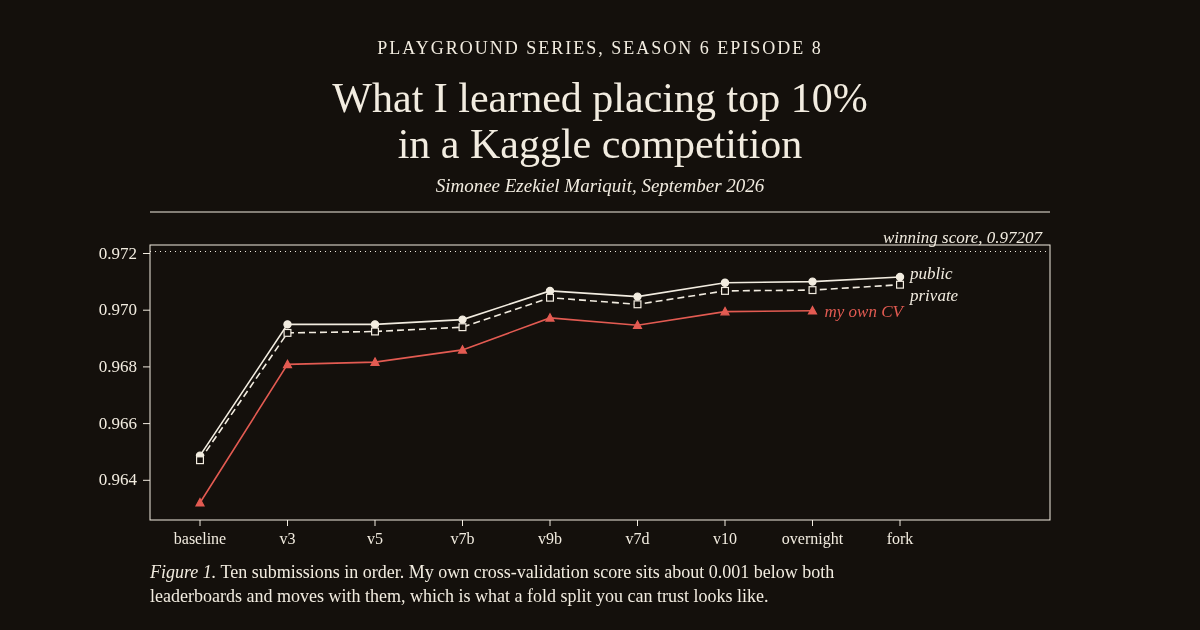
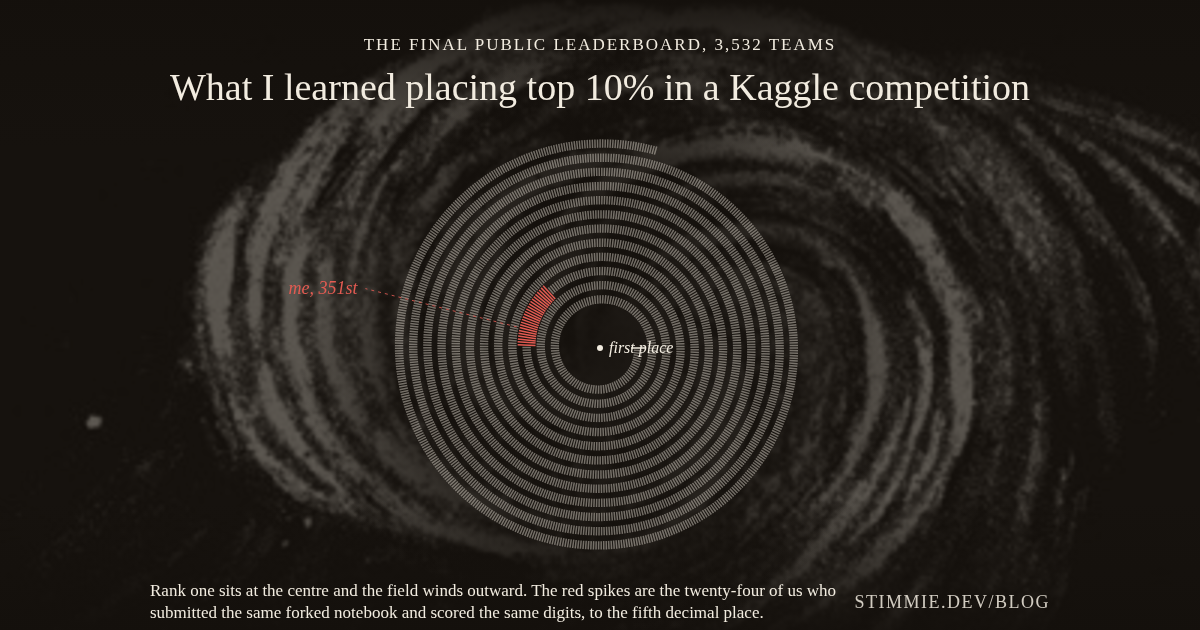
style(blog): cut the explain-the-meaning clauses, new cover
Removes the trailing "which is what a ... looks like" tag and its weaker
cousins from the Kaggle post. The cover is now the final leaderboard drawn as
a groove, rank one at the centre, over Lord Rosse's 1845 sketch of the
Whirlpool Galaxy (public domain).

Claude-Session: https://claude.ai/code/session_013WSamzJNLtGXawZjFojaYm

diff --git a/src/app/blog/top-ten-percent-on-kaggle/page.js b/src/app/blog/top-ten-percent-on-kaggle/page.js
@@ -202,15 +202,15 @@ export default function KagglePage() {
 
         <p>
           The one genuinely useful thing to do with the public score is to check it once against your CV at the
-          start. Mine agreed to within 0.002, and the leaderboard was slightly higher than CV, which is the healthy
-          direction. That told me my validation was honest. From then on I only submitted when CV went up, and I
+          start. Mine agreed to within 0.002, with the leaderboard slightly higher than CV. Had it come in below CV I would
+          have known my folds were flattering me. From then on I only submitted when CV went up, and I
           put the CV number in every submission description so I could tell later what had actually helped.
         </p>
 
         <Figure
           src="/blog/kaggle/submissions-tracking.png"
           alt="Line chart of my ten submissions in order, with my cross-validation score, the public leaderboard score and the private leaderboard score moving together, and the two submissions taken from public notebooks shaded."
-          caption="My ten submissions in order. The public and private scores sit about 0.001 above my own cross-validation and move with it the whole way, which is what a trustworthy fold split looks like. The two shaded submissions came from public notebooks, so they have no cross-validation of my own."
+          caption="My ten submissions in order. The public and private scores sit about 0.001 above my own cross-validation and move with it the whole way. The two shaded submissions came from public notebooks, so they have no cross-validation of my own."
         />
 
         <h2>Leakage</h2>
@@ -225,7 +225,7 @@ export default function KagglePage() {
         <p>
           The cheap check is to score every column on its own against the answer. If one column nearly solves the
           problem by itself, something is wrong. Here the strongest were daily screen time and weekend screen time,
-          and neither came close to solving it alone, which is what a strong honest feature looks like.
+          and neither came close to solving it alone.
         </p>
 
         <p>
@@ -297,7 +297,7 @@ export default function KagglePage() {
           You then have to combine 84 sets of guesses into one. I tried three ways of doing it and they all landed
           within 0.0001 of each other, which told me the combining method wasn&apos;t where the score lived. What did
           move it was adding a model that made <em>different</em> mistakes from the others. Another copy of the same
-          model with a new random seed was worth about 0.00003, which is nothing.
+          model with a new random seed was worth about 0.00003.
         </p>
 
         <h2>Forking the public notebook</h2>
@@ -369,14 +369,13 @@ export default function KagglePage() {
           Second place is the one I keep rereading.{" "}
           <a href="https://www.kaggle.com/competitions/playground-series-s6e8/writeups/2nd-place-solution">Xin Feng</a>{" "}
           did it by hand on Kaggle&apos;s free GPUs and a twenty dollar subscription, and his writeup lands on the
-          same rule this post keeps circling, which is to trust your own out-of-fold score and treat the public
-          leaderboard as a check rather than a target. He also says he spent his last week hunting for a better way to blend when
-          he should have been improving one model, which is the mistake I made in miniature with my 84.
+          same rule this post keeps circling. Trust your own out-of-fold score and treat the public leaderboard as a
+          check rather than a target. He also says he spent his last week hunting for a better way to blend when
+          he should have been improving one model. I made that mistake in miniature with my 84.
         </p>
 
         <p>
-          I have my own answer, which is that the thing I could not have outsourced was knowing whether to believe
-          my own validation. Deotte says something close to this in the comments, where he writes that humans
+          The thing I could not have outsourced was knowing whether to believe my own validation. Deotte says something close to this in the comments, where he writes that humans
           cannot beat agents on coding speed any more, only on the insight the agent overlooked. Learning what a fold is for turns out
           to be the part that keeps mattering.
         </p>
